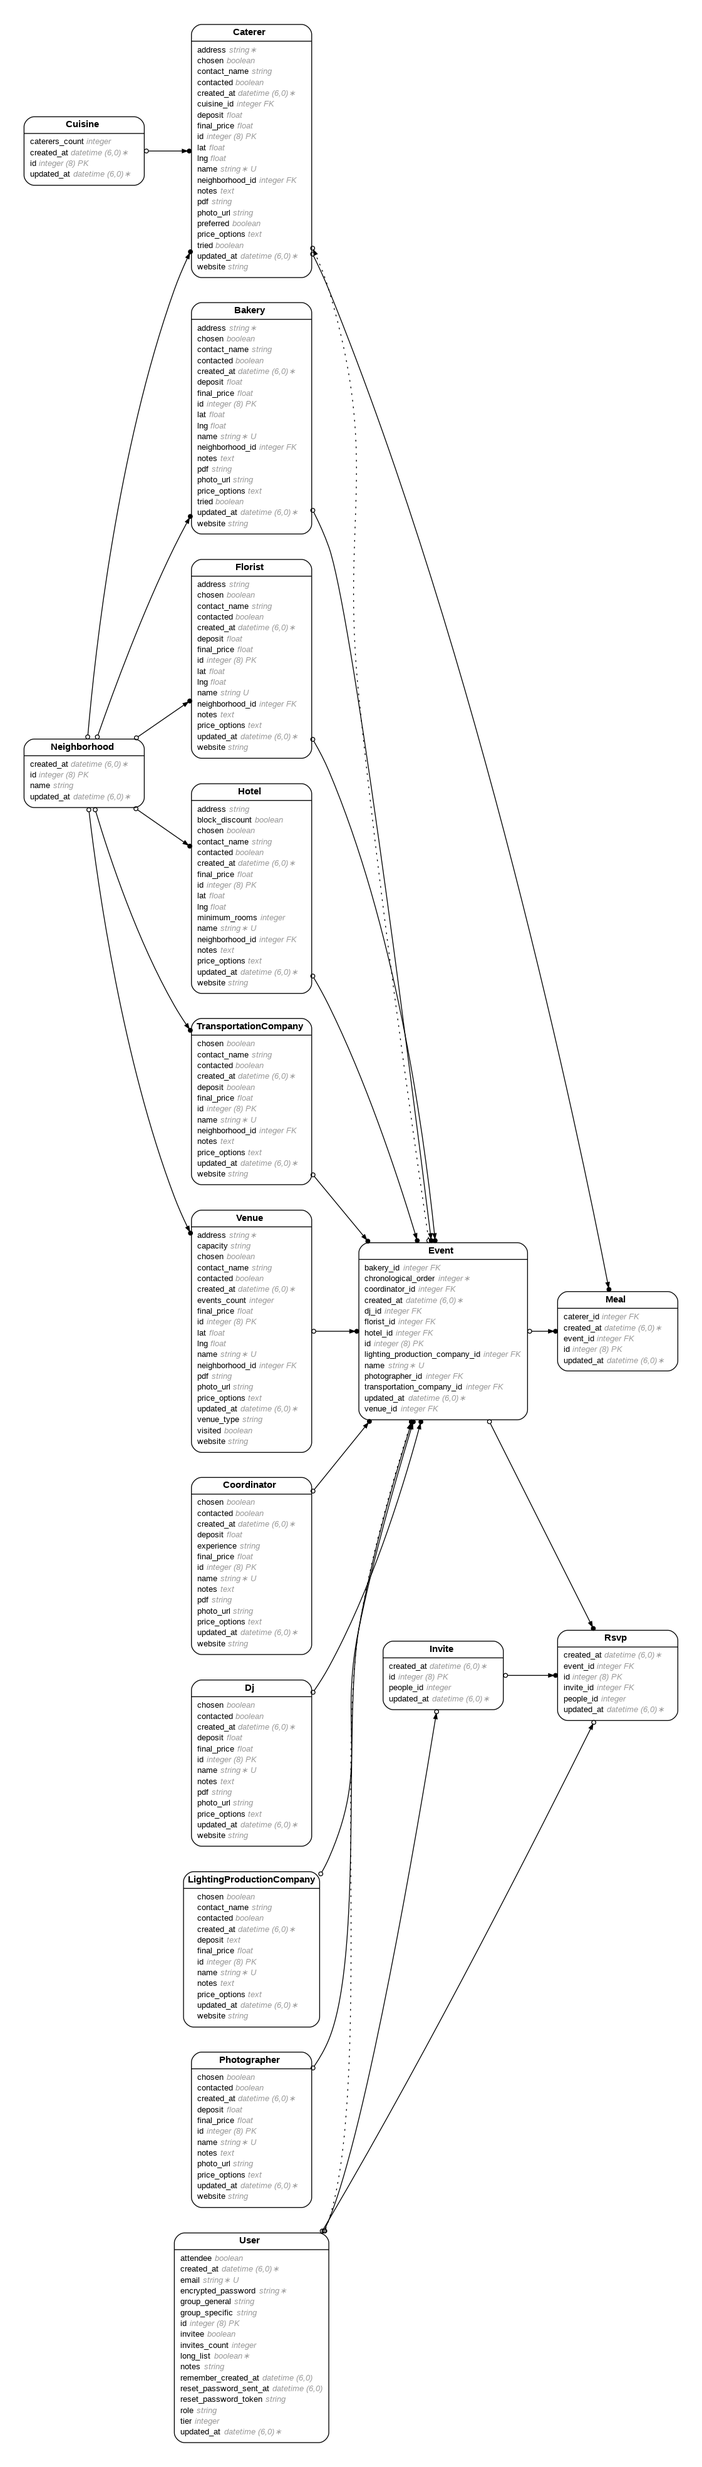
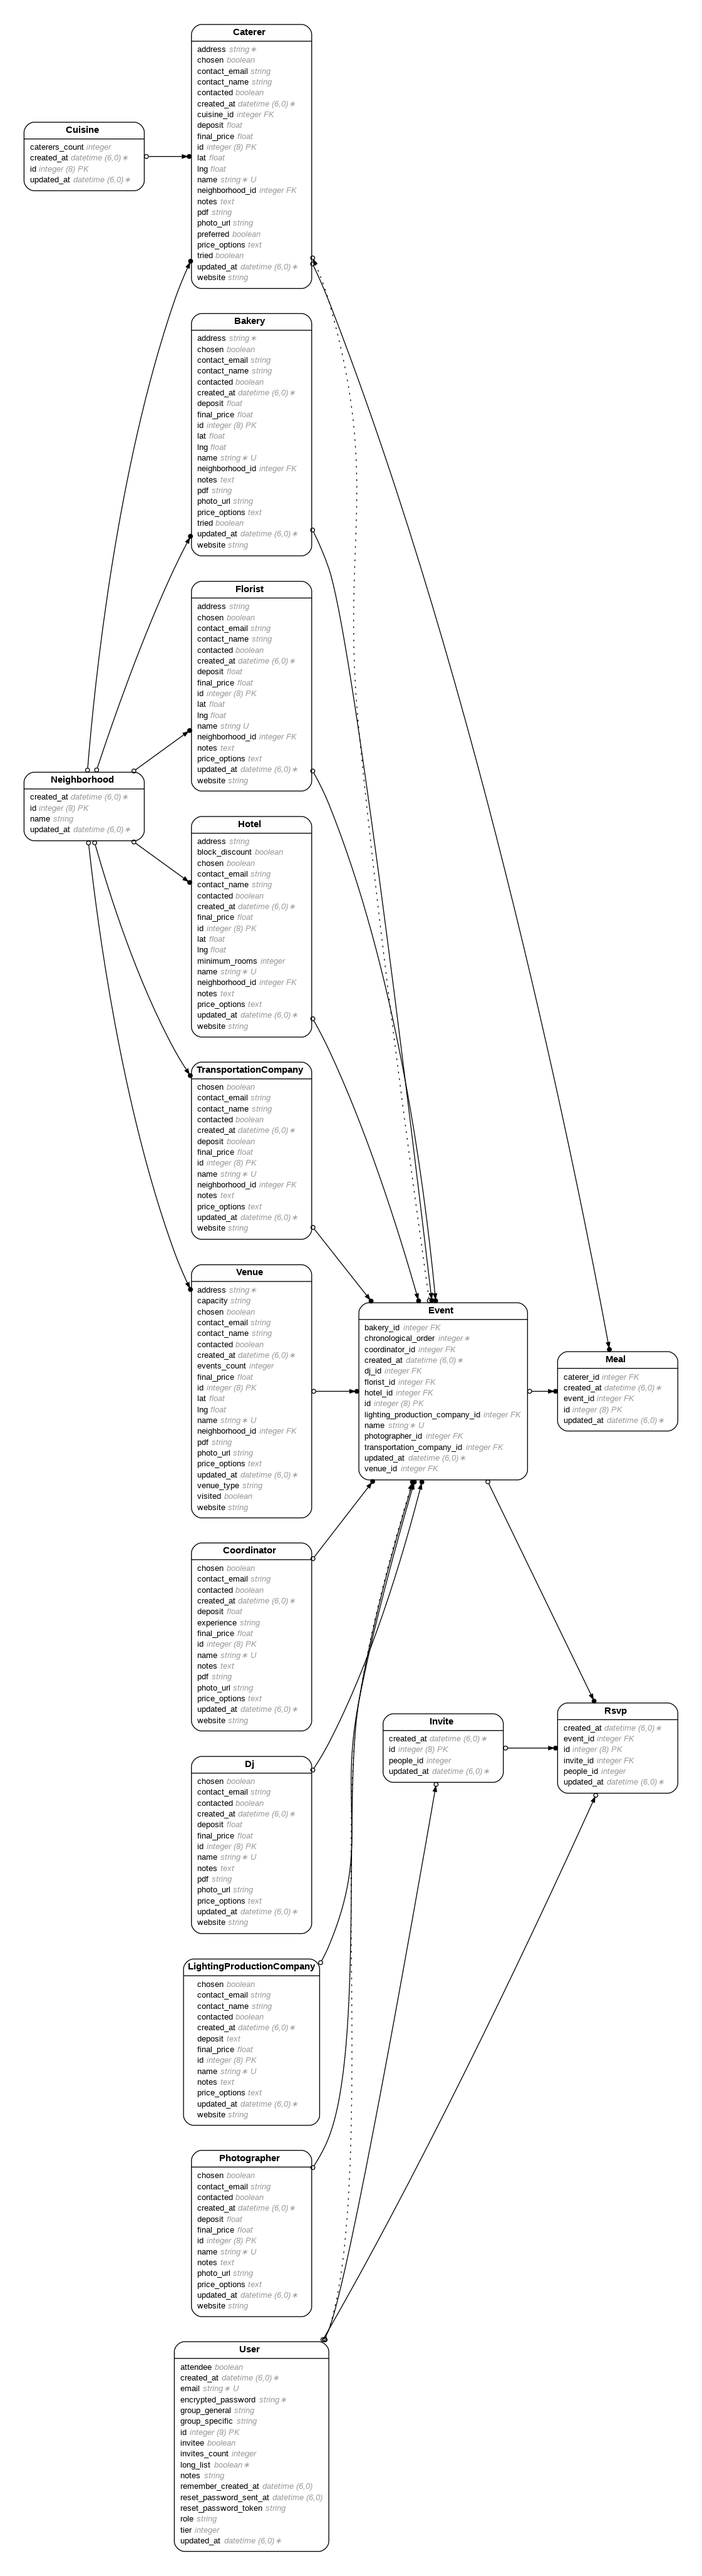
Adding ContactEmail to Vendors

diff --git a/db/schema.rb b/db/schema.rb
@@ -10,7 +10,7 @@
 #
 # It's strongly recommended that you check this file into your version control system.
 
-ActiveRecord::Schema[7.1].define(version: 2024_12_01_224019) do
+ActiveRecord::Schema[7.1].define(version: 2024_12_02_035946) do
   # These are extensions that must be enabled in order to support this database
   enable_extension "plpgsql"
 
@@ -33,6 +33,7 @@ ActiveRecord::Schema[7.1].define(version: 2024_12_01_224019) do
     t.integer "neighborhood_id"
     t.datetime "created_at", null: false
     t.datetime "updated_at", null: false
+    t.string "contact_email"
   end
 
   create_table "caterers", force: :cascade do |t|
@@ -56,6 +57,7 @@ ActiveRecord::Schema[7.1].define(version: 2024_12_01_224019) do
     t.integer "neighborhood_id"
     t.datetime "created_at", null: false
     t.datetime "updated_at", null: false
+    t.string "contact_email"
   end
 
   create_table "coordinators", force: :cascade do |t|
@@ -72,6 +74,7 @@ ActiveRecord::Schema[7.1].define(version: 2024_12_01_224019) do
     t.string "experience"
     t.datetime "created_at", null: false
     t.datetime "updated_at", null: false
+    t.string "contact_email"
   end
 
   create_table "cuisines", force: :cascade do |t|
@@ -93,6 +96,7 @@ ActiveRecord::Schema[7.1].define(version: 2024_12_01_224019) do
     t.float "final_price"
     t.datetime "created_at", null: false
     t.datetime "updated_at", null: false
+    t.string "contact_email"
   end
 
   create_table "events", force: :cascade do |t|
@@ -127,6 +131,7 @@ ActiveRecord::Schema[7.1].define(version: 2024_12_01_224019) do
     t.integer "neighborhood_id"
     t.datetime "created_at", null: false
     t.datetime "updated_at", null: false
+    t.string "contact_email"
   end
 
   create_table "hotels", force: :cascade do |t|
@@ -146,6 +151,7 @@ ActiveRecord::Schema[7.1].define(version: 2024_12_01_224019) do
     t.float "final_price"
     t.datetime "created_at", null: false
     t.datetime "updated_at", null: false
+    t.string "contact_email"
   end
 
   create_table "invites", force: :cascade do |t|
@@ -166,6 +172,7 @@ ActiveRecord::Schema[7.1].define(version: 2024_12_01_224019) do
     t.float "final_price"
     t.datetime "created_at", null: false
     t.datetime "updated_at", null: false
+    t.string "contact_email"
   end
 
   create_table "meals", force: :cascade do |t|
@@ -193,6 +200,7 @@ ActiveRecord::Schema[7.1].define(version: 2024_12_01_224019) do
     t.float "final_price"
     t.datetime "created_at", null: false
     t.datetime "updated_at", null: false
+    t.string "contact_email"
   end
 
   create_table "rsvps", force: :cascade do |t|
@@ -216,6 +224,7 @@ ActiveRecord::Schema[7.1].define(version: 2024_12_01_224019) do
     t.integer "neighborhood_id"
     t.datetime "created_at", null: false
     t.datetime "updated_at", null: false
+    t.string "contact_email"
   end
 
   create_table "users", force: :cascade do |t|
@@ -259,6 +268,7 @@ ActiveRecord::Schema[7.1].define(version: 2024_12_01_224019) do
     t.integer "events_count"
     t.datetime "created_at", null: false
     t.datetime "updated_at", null: false
+    t.string "contact_email"
   end
 
 end

diff --git a/app/models/bakery.rb b/app/models/bakery.rb
@@ -5,6 +5,7 @@
 #  id              :bigint           not null, primary key
 #  address         :string
 #  chosen          :boolean
+#  contact_email   :string
 #  contact_name    :string
 #  contacted       :boolean
 #  deposit         :float

diff --git a/app/models/caterer.rb b/app/models/caterer.rb
@@ -5,6 +5,7 @@
 #  id              :bigint           not null, primary key
 #  address         :string
 #  chosen          :boolean
+#  contact_email   :string
 #  contact_name    :string
 #  contacted       :boolean
 #  deposit         :float

diff --git a/app/models/florist.rb b/app/models/florist.rb
@@ -5,6 +5,7 @@
 #  id              :bigint           not null, primary key
 #  address         :string
 #  chosen          :boolean
+#  contact_email   :string
 #  contact_name    :string
 #  contacted       :boolean
 #  deposit         :float

diff --git a/app/models/transportation_company.rb b/app/models/transportation_company.rb
@@ -4,6 +4,7 @@
 #
 #  id              :bigint           not null, primary key
 #  chosen          :boolean
+#  contact_email   :string
 #  contact_name    :string
 #  contacted       :boolean
 #  deposit         :boolean

diff --git a/app/models/venue.rb b/app/models/venue.rb
@@ -6,6 +6,7 @@
 #  address         :string
 #  capacity        :string
 #  chosen          :boolean
+#  contact_email   :string
 #  contact_name    :string
 #  contacted       :boolean
 #  events_count    :integer

diff --git a/app/models/hotel.rb b/app/models/hotel.rb
@@ -6,6 +6,7 @@
 #  address         :string
 #  block_discount  :boolean
 #  chosen          :boolean
+#  contact_email   :string
 #  contact_name    :string
 #  contacted       :boolean
 #  final_price     :float

diff --git a/app/models/coordinator.rb b/app/models/coordinator.rb
@@ -4,6 +4,7 @@
 #
 #  id            :bigint           not null, primary key
 #  chosen        :boolean
+#  contact_email :string
 #  contacted     :boolean
 #  deposit       :float
 #  experience    :string

diff --git a/app/models/dj.rb b/app/models/dj.rb
@@ -4,6 +4,7 @@
 #
 #  id            :bigint           not null, primary key
 #  chosen        :boolean
+#  contact_email :string
 #  contacted     :boolean
 #  deposit       :float
 #  final_price   :float

diff --git a/app/models/lighting_production_company.rb b/app/models/lighting_production_company.rb
@@ -4,6 +4,7 @@
 #
 #  id            :bigint           not null, primary key
 #  chosen        :boolean
+#  contact_email :string
 #  contact_name  :string
 #  contacted     :boolean
 #  deposit       :text

diff --git a/app/models/photographer.rb b/app/models/photographer.rb
@@ -4,6 +4,7 @@
 #
 #  id            :bigint           not null, primary key
 #  chosen        :boolean
+#  contact_email :string
 #  contacted     :boolean
 #  deposit       :float
 #  final_price   :float

diff --git a/db/migrate/20241202035857_add_contact_email_to_lighting_production_company.rb b/db/migrate/20241202035857_add_contact_email_to_lighting_production_company.rb
@@ -1,0 +1,5 @@
+class AddContactEmailToLightingProductionCompany < ActiveRecord::Migration[7.1]
+  def change
+    add_column :lighting_production_companies, :contact_email, :string
+  end
+end
